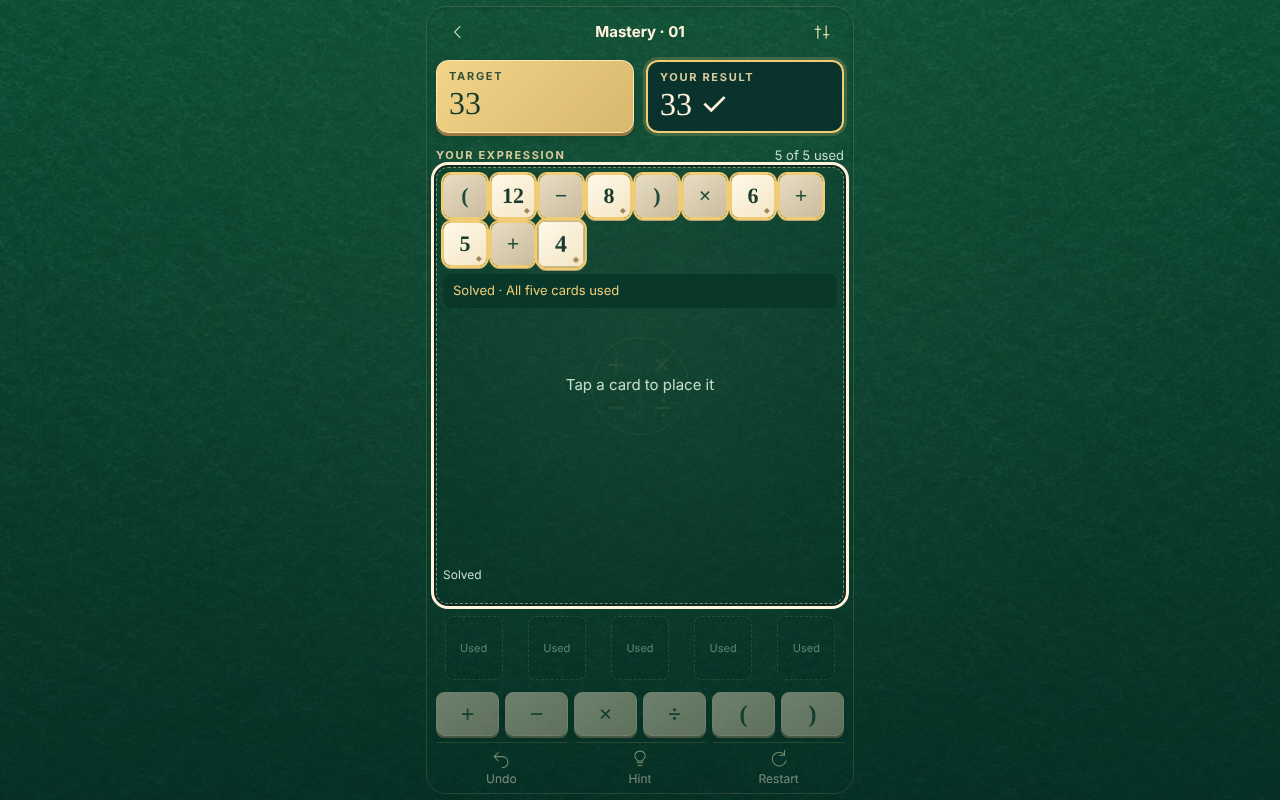
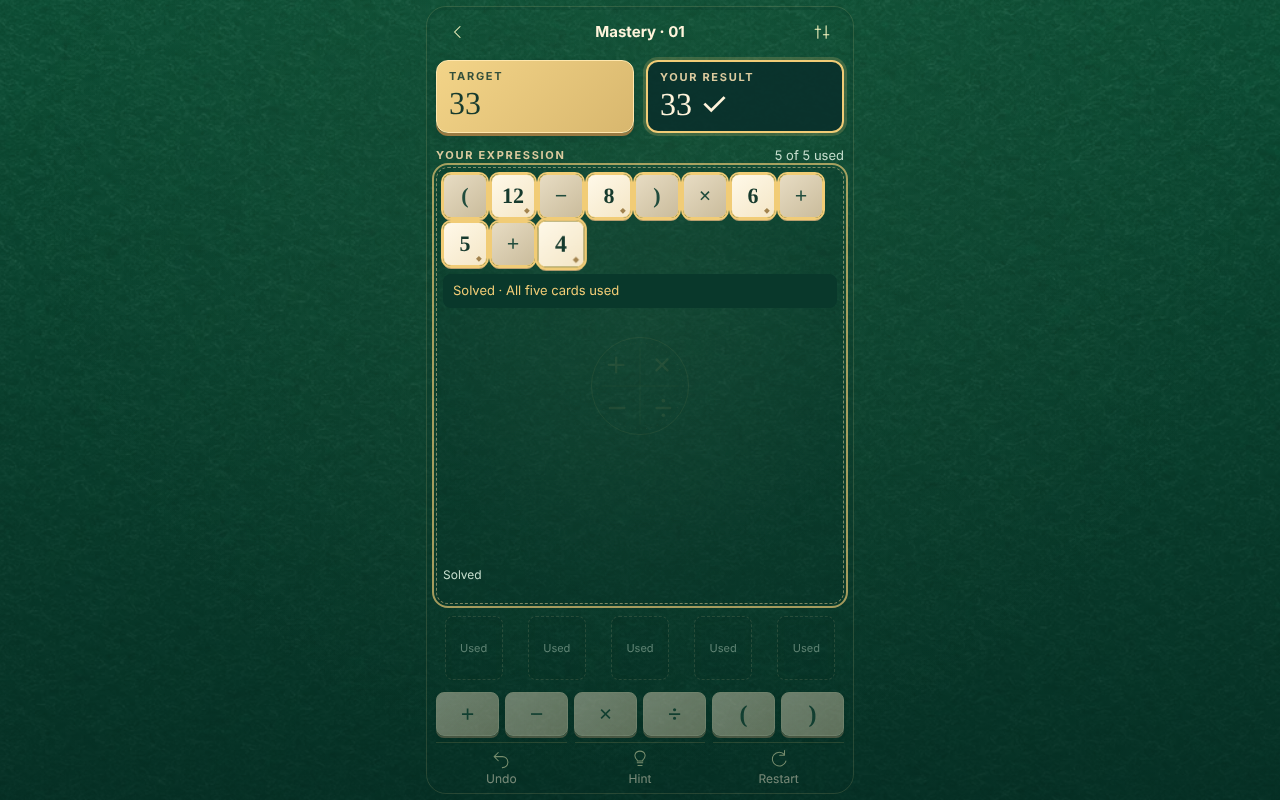
mathly-trails: fix empty hint visibility, compact completion screen, softer well focus

diff --git a/games/mathly-trails/index.html b/games/mathly-trails/index.html
@@ -14,6 +14,7 @@
   --cell:44px;--gap:4px;
 }
 *{box-sizing:border-box}
+[hidden]{display:none!important}
 html,body{height:100%;margin:0}
 body{background:#12513D;color:var(--cream);font:16px/1.375 var(--ui);overflow:hidden;
   -webkit-tap-highlight-color:transparent;-webkit-user-select:none;user-select:none}
@@ -90,7 +91,7 @@ button:disabled{opacity:.45;cursor:default}
 .worktop{height:24px;display:flex;align-items:center;justify-content:space-between;flex:none}
 .well{position:relative;flex:1;min-height:150px;border:1px dashed #d6c28b91;border-radius:12px;padding:6px;display:flex;flex-direction:column;
   background:radial-gradient(ellipse at 50% 40%,#c7d3a708,transparent 75%),#072d2630;box-shadow:inset 0 0 0 4px #001a1a12;outline:none}
-.well:focus-visible{outline:3px solid var(--cream);outline-offset:2px}
+.well:focus-visible{outline:2px solid #f1cc76aa;outline-offset:2px;box-shadow:none}
 .well.drop{border-color:var(--gold);background:#0a3a3060}
 .well:before{content:"";width:110px;height:110px;position:absolute;left:50%;top:50%;transform:translate(-50%,-50%);background:url('assets/table-mark.svg') center/contain no-repeat;opacity:.075;pointer-events:none}
 .hc .well{border:2px solid var(--cream);background:#09382B}.hc .well:before{display:none}
@@ -150,6 +151,7 @@ button:disabled{opacity:.45;cursor:default}
 .sr{position:absolute;width:1px;height:1px;overflow:hidden;clip:rect(0 0 0 0);white-space:nowrap}
 @media (max-width:359px){.app{padding-left:12px;padding-right:12px}.slots{gap:6px}.palette{gap:4px}.hero{font-size:32px}}
 @media (max-height:700px){.hand{height:84px}.hero{font-size:32px}.plaque{min-height:64px;padding:4px 10px}.value{font-size:28px;line-height:32px}.slots .card{height:58px}.body{padding-top:10px}}
+@media (max-height:620px){.seal{width:56px;height:56px;font-size:28px;margin:2px auto}.celebrate .hero{font-size:28px;margin:4px 0}.expr{font-size:20px;line-height:1.45}.celebrate .body{gap:8px;padding-top:6px}.celebrate .btn{min-height:44px}.home .logo{margin-top:6px;height:50px}}
 @media (prefers-reduced-motion:reduce){*{animation:none!important;transition:none!important}}
 </style>
 </head>
